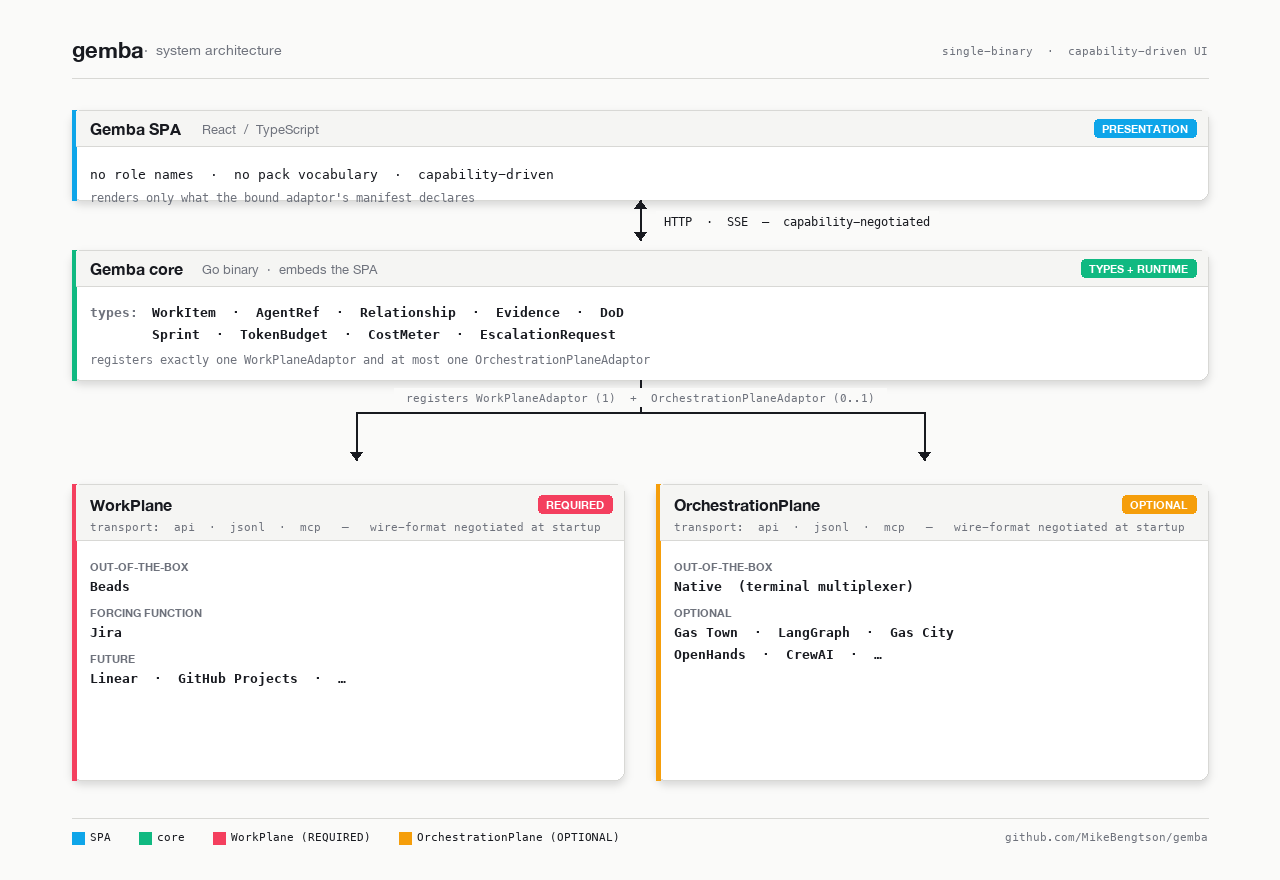
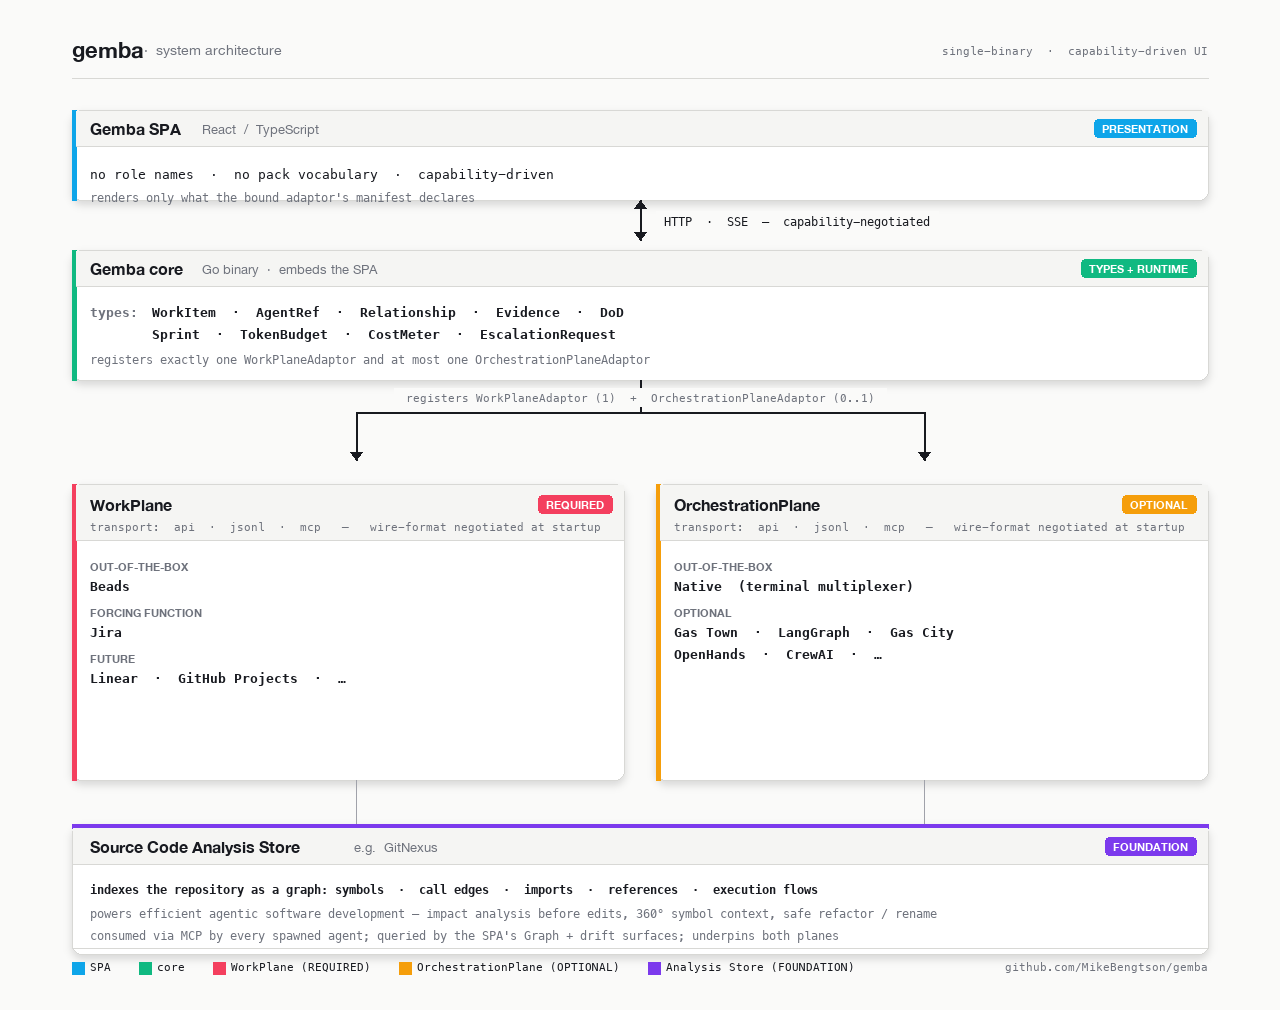
docs(arch): add Source Code Analysis Store as foundation tier
Add a fifth tier below WorkPlane + OrchestrationPlane: "Source Code
Analysis Store (e.g. GitNexus)", labelled FOUNDATION. The card uses
a top-stripe (violet) instead of the side-stripe the upper tiers
carry, so it reads as a base layer rather than a sibling card; the
connector from the two adaptor columns drops down to it without
arrowheads — visual semantics for "underpins both planes" rather
than "consumed by."

Body copy frames the foundation as the index that powers efficient
agentic software development: graph indexing of symbols / call edges
/ imports / references / execution flows; impact analysis before
edits, 360° symbol context, safe refactor / rename; consumed via MCP
by every spawned agent and by the SPA's Graph + drift surfaces.

Canvas height bumps from 880 to 1010 to fit the new tier; legend
gains a fifth entry. Generator script + regenerated PNG land
together so the image stays reproducible.

diff --git a/docs/img/architecture.gen.py b/docs/img/architecture.gen.py
@@ -16,7 +16,7 @@ Run: `python3 docs/img/architecture.gen.py`
 import os
 from PIL import Image, ImageDraw, ImageFont, ImageFilter
 
-W, H = 1280, 880
+W, H = 1280, 1010
 OUT = os.path.join(os.path.dirname(os.path.abspath(__file__)), "architecture.png")
 
 # ── Fonts ──
@@ -49,6 +49,7 @@ ACCENT = {
     "core": (16, 185, 129),    # emerald
     "wp": (244, 63, 94),       # rose — REQUIRED
     "orch": (245, 158, 11),    # amber — OPTIONAL
+    "analysis": (124, 58, 237), # violet — FOUNDATION (Source Code Analysis Store)
 }
 
 
@@ -264,6 +265,55 @@ def main():
                                    "OpenHands  ·  CrewAI  ·  …"]),
                  ])
 
+    # ── Connector 3 → 4: foundation underpins both adaptor columns ──
+    # Visual semantics: the analysis store *underpins* both planes
+    # rather than being consumed by them. We draw two thin vertical
+    # lines from each adaptor's bottom-center down to the foundation
+    # card's top — without arrowheads — so the foundation reads as a
+    # bedrock layer rather than a downstream consumer.
+    f_y = 824
+    f_h = 130
+    f_top = f_y
+    adaptor_bottom = t3_y + t3_h  # 780
+    d.line([(left_cx, adaptor_bottom), (left_cx, f_top)],
+           fill=(*SOFT, 255), width=1)
+    d.line([(right_cx, adaptor_bottom), (right_cx, f_top)],
+           fill=(*SOFT, 255), width=1)
+
+    # ── Tier 4: Source Code Analysis Store (foundation) ─────────────
+    # Distinct from the upper tiers in two ways: (a) top-stripe
+    # instead of left-stripe so the bar reads as a base/floor rather
+    # than a sidebar, (b) labelled FOUNDATION with the violet accent
+    # so the legend tells the operator this is its own concept tier.
+    t4 = (72, f_y, W - 72, f_y + f_h)
+    shadowed_round_rect(img, t4[0], t4[1], t4[2] - t4[0], t4[3] - t4[1])
+    d = ImageDraw.Draw(img)
+    stripe(d, t4[0], t4[1], t4[2] - t4[0], t4[3] - t4[1],
+           ACCENT["analysis"], side="top")
+    d.rectangle((t4[0] + 1, t4[1] + 4, t4[2] - 1, t4[1] + 40),
+                fill=(*HEADER, 255))
+    d.line([(t4[0] + 1, t4[1] + 40), (t4[2] - 1, t4[1] + 40)],
+           fill=(*BORDER, 255), width=1)
+    d.text((t4[0] + 18, t4[1] + 13), "Source Code Analysis Store",
+           font=f(HELV_NEUE, 16, idx=1), fill=(*INK, 255))
+    d.text((t4[0] + 282, t4[1] + 15), "e.g.  GitNexus",
+           font=f(HELV_NEUE, 13, idx=0), fill=(*DIM, 255))
+    chip_x = t4[2] - 12 - tw(d, "FOUNDATION", f(HELV_NEUE, 11, idx=1)) - 16
+    chip(d, chip_x, t4[1] + 13, "FOUNDATION", ACCENT["analysis"])
+    # Body — what the foundation provides.
+    d.text((t4[0] + 18, t4[1] + 58),
+           "indexes the repository as a graph: symbols  ·  call edges  ·  imports  "
+           "·  references  ·  execution flows",
+           font=f(MENLO, 12, idx=1), fill=(*INK, 255))
+    d.text((t4[0] + 18, t4[1] + 82),
+           "powers efficient agentic software development — impact analysis "
+           "before edits, 360° symbol context, safe refactor / rename",
+           font=f(MENLO, 12, idx=0), fill=(*DIM, 255))
+    d.text((t4[0] + 18, t4[1] + 104),
+           "consumed via MCP by every spawned agent; queried by the SPA's "
+           "Graph + drift surfaces; underpins both planes",
+           font=f(MENLO, 12, idx=0), fill=(*DIM, 255))
+
     # ── Footer / legend ──────────────────────────────────────────────
     foot_y = H - 56
     d.line([(72, foot_y - 6), (W - 72, foot_y - 6)],
@@ -274,6 +324,7 @@ def main():
         ("core", ACCENT["core"]),
         ("WorkPlane (REQUIRED)", ACCENT["wp"]),
         ("OrchestrationPlane (OPTIONAL)", ACCENT["orch"]),
+        ("Analysis Store (FOUNDATION)", ACCENT["analysis"]),
     ]
     x = 72
     for label, color in legend_items:
